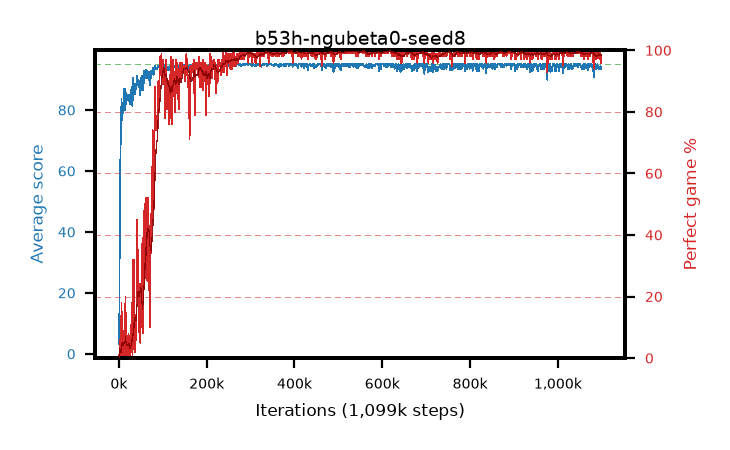
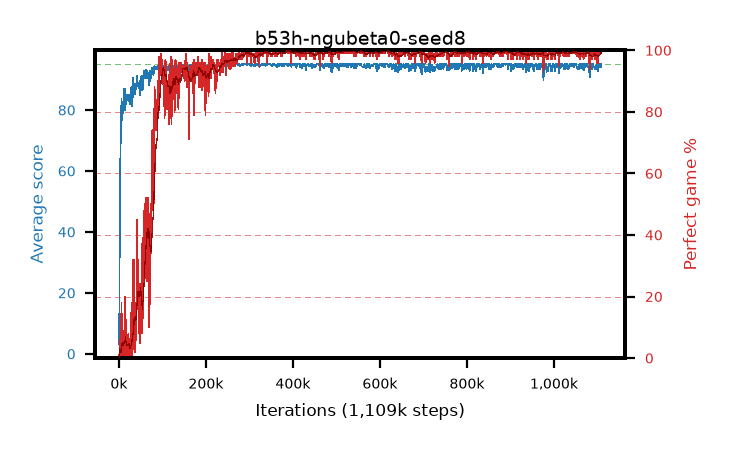
live pictures of 4 arm(s)

diff --git a/results/b53f-ngubeta0-seed6/b53f-ngubeta0-seed6.md b/results/b53f-ngubeta0-seed6/b53f-ngubeta0-seed6.md
@@ -1,6 +1,6 @@
 # b53f-ngubeta0-seed6
 
-step **1,079,000** · 1079 evals · trailing **94.49** · peak **94.99** @323,000 · sef **87.5** · best30 **99.8** @323,000
+step **1,089,000** · 1089 evals · trailing **94.54** · peak **94.99** @323,000 · sef **87.6** · best30 **99.8** @323,000
 
 ## Config
 
@@ -80,15 +80,15 @@ step **1,079,000** · 1079 evals · trailing **94.49** · peak **94.99** @323,00
 | 2000 | 35.17 | 18.16 | 10.0 | 67.0 | 29.965 | 0.0 | 0.4 |
 | 3000 | 47.63 | 27.98 | 1.0 | 93.0 | 42.642 | 0.0 | 0.4 |
 | ... | ... | ... | ... | ... | ... | ... | ... |
-| 1068000 | 95.0 | 94.69 | 95.0 | 95.0 | 193.791 | 100.0 | 0.4 |
-| 1069000 | 94.07 | 94.66 | 27.0 | 95.0 | 190.776 | 98.0 | 0.4 |
-| 1070000 | 94.55 | 94.68 | 50.0 | 95.0 | 192.299 | 99.0 | 0.4 |
-| 1071000 | 93.64 | 94.66 | 14.0 | 95.0 | 190.348 | 98.0 | 0.4 |
-| 1072000 | 95.0 | 94.68 | 95.0 | 95.0 | 193.793 | 100.0 | 0.4 |
-| 1073000 | 93.55 | 94.63 | 21.0 | 95.0 | 190.264 | 98.0 | 0.4 |
-| 1074000 | 94.8 | 94.64 | 75.0 | 95.0 | 192.593 | 99.0 | 0.4 |
-| 1075000 | 94.21 | 94.61 | 16.0 | 95.0 | 191.957 | 99.0 | 0.4 |
-| 1076000 | 95.0 | 94.61 | 95.0 | 95.0 | 193.785 | 100.0 | 0.4 |
-| 1077000 | 95.0 | 94.61 | 95.0 | 95.0 | 193.792 | 100.0 | 0.4 |
 | 1078000 | 93.57 | 94.56 | 20.0 | 95.0 | 190.274 | 98.0 | 0.4 |
 | 1079000 | 92.72 | 94.49 | 12.0 | 95.0 | 188.402 | 97.0 | 0.4 |
+| 1080000 | 95.0 | 94.49 | 95.0 | 95.0 | 193.782 | 100.0 | 0.4 |
+| 1081000 | 95.0 | 94.49 | 95.0 | 95.0 | 193.785 | 100.0 | 0.4 |
+| 1082000 | 95.0 | 94.51 | 95.0 | 95.0 | 193.779 | 100.0 | 0.4 |
+| 1083000 | 95.0 | 94.51 | 95.0 | 95.0 | 193.789 | 100.0 | 0.4 |
+| 1084000 | 95.0 | 94.51 | 95.0 | 95.0 | 193.781 | 100.0 | 0.4 |
+| 1085000 | 94.13 | 94.51 | 8.0 | 95.0 | 191.874 | 99.0 | 0.4 |
+| 1086000 | 95.0 | 94.51 | 95.0 | 95.0 | 193.78 | 100.0 | 0.4 |
+| 1087000 | 95.0 | 94.53 | 95.0 | 95.0 | 193.776 | 100.0 | 0.4 |
+| 1088000 | 95.0 | 94.53 | 95.0 | 95.0 | 193.793 | 100.0 | 0.4 |
+| 1089000 | 94.67 | 94.54 | 62.0 | 95.0 | 192.41 | 99.0 | 0.4 |

diff --git a/results/b53h-ngubeta0-seed8/b53h-ngubeta0-seed8.md b/results/b53h-ngubeta0-seed8/b53h-ngubeta0-seed8.md
@@ -1,6 +1,6 @@
 # b53h-ngubeta0-seed8
 
-step **1,099,000** · 1099 evals · trailing **94.19** · peak **94.92** @356,000 · sef **91.4** · best30 **99.7** @539,000
+step **1,109,000** · 1109 evals · trailing **94.15** · peak **94.92** @356,000 · sef **91.5** · best30 **99.7** @539,000
 
 ## Config
 
@@ -80,15 +80,15 @@ step **1,099,000** · 1099 evals · trailing **94.19** · peak **94.92** @356,00
 | 2000 | 50.19 | 26.7 | 2.0 | 95.0 | 51.185 | 6.0 | 0.4 |
 | 3000 | 57.71 | 37.03 | 27.0 | 95.0 | 54.481 | 2.0 | 0.4 |
 | ... | ... | ... | ... | ... | ... | ... | ... |
-| 1088000 | 93.37 | 94.23 | 21.0 | 95.0 | 189.035 | 97.0 | 0.4 |
-| 1089000 | 94.37 | 94.26 | 32.0 | 95.0 | 192.106 | 99.0 | 0.4 |
-| 1090000 | 95.0 | 94.26 | 95.0 | 95.0 | 193.783 | 100.0 | 0.4 |
-| 1091000 | 94.26 | 94.24 | 21.0 | 95.0 | 192.001 | 99.0 | 0.4 |
-| 1092000 | 94.26 | 94.21 | 21.0 | 95.0 | 192.003 | 99.0 | 0.4 |
-| 1093000 | 94.13 | 94.21 | 8.0 | 95.0 | 191.882 | 99.0 | 0.4 |
-| 1094000 | 93.57 | 94.21 | 22.0 | 95.0 | 190.278 | 98.0 | 0.4 |
-| 1095000 | 93.44 | 94.17 | 16.0 | 95.0 | 189.15 | 97.0 | 0.4 |
-| 1096000 | 94.23 | 94.19 | 18.0 | 95.0 | 191.97 | 99.0 | 0.4 |
-| 1097000 | 94.41 | 94.17 | 36.0 | 95.0 | 192.158 | 99.0 | 0.4 |
 | 1098000 | 93.72 | 94.2 | 25.0 | 95.0 | 189.38 | 97.0 | 0.4 |
 | 1099000 | 93.41 | 94.19 | 17.0 | 95.0 | 188.028 | 96.0 | 0.4 |
+| 1100000 | 95.0 | 94.19 | 95.0 | 95.0 | 193.78 | 100.0 | 0.4 |
+| 1101000 | 92.89 | 94.12 | 22.0 | 95.0 | 187.558 | 96.0 | 0.4 |
+| 1102000 | 95.0 | 94.12 | 95.0 | 95.0 | 193.784 | 100.0 | 0.4 |
+| 1103000 | 95.0 | 94.15 | 95.0 | 95.0 | 193.786 | 100.0 | 0.4 |
+| 1104000 | 95.0 | 94.15 | 95.0 | 95.0 | 193.785 | 100.0 | 0.4 |
+| 1105000 | 95.0 | 94.15 | 95.0 | 95.0 | 193.788 | 100.0 | 0.4 |
+| 1106000 | 94.24 | 94.13 | 19.0 | 95.0 | 191.985 | 99.0 | 0.4 |
+| 1107000 | 95.0 | 94.13 | 95.0 | 95.0 | 193.786 | 100.0 | 0.4 |
+| 1108000 | 94.22 | 94.13 | 17.0 | 95.0 | 191.969 | 99.0 | 0.4 |
+| 1109000 | 95.0 | 94.15 | 95.0 | 95.0 | 193.785 | 100.0 | 0.4 |
